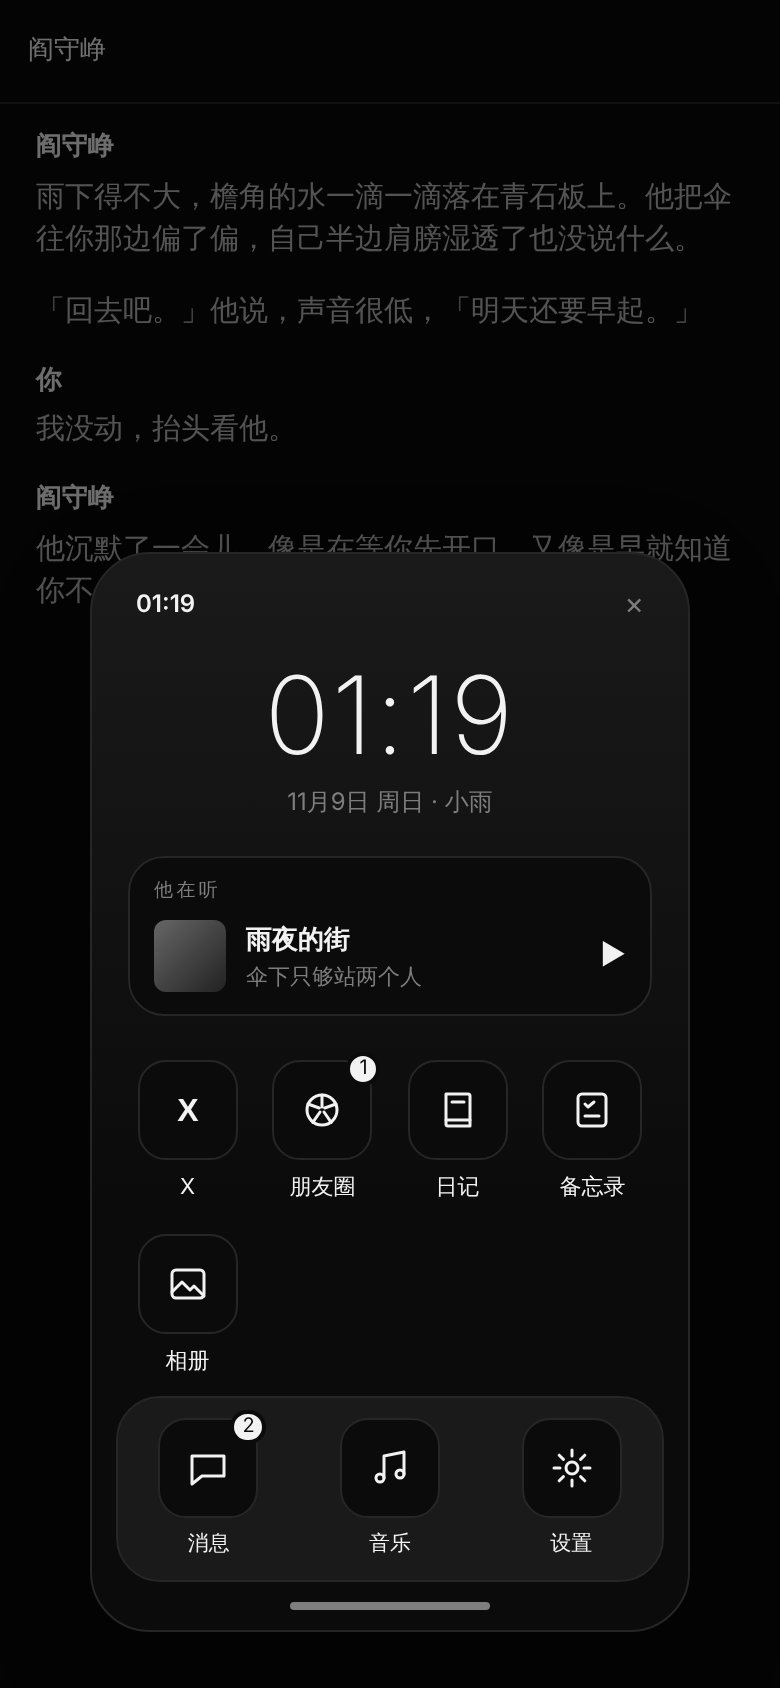
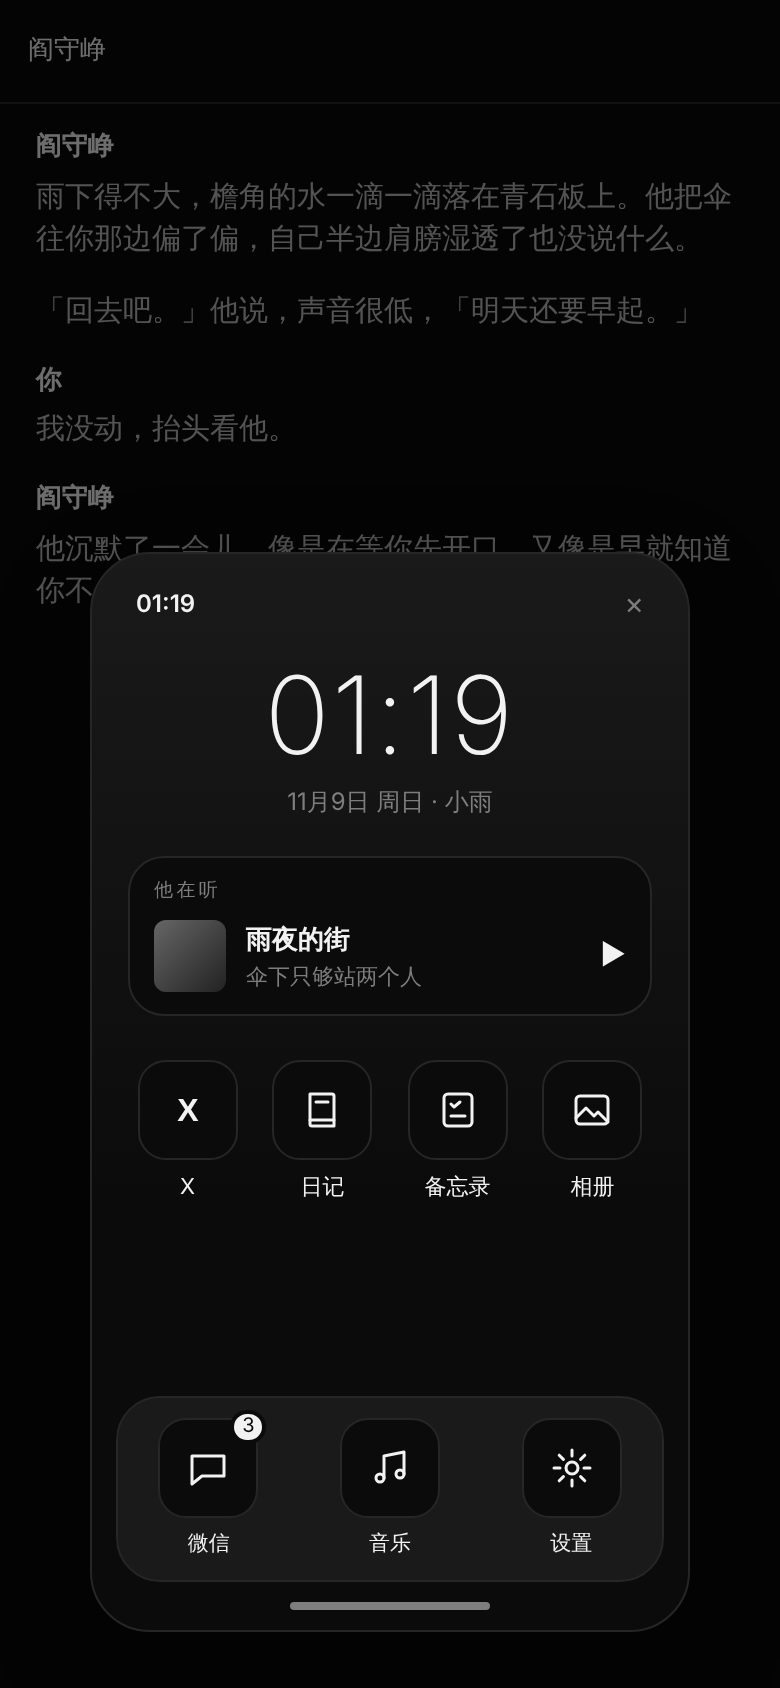
样子图：小手机加微信（聊天 / 通讯录 / 朋友圈 / 我），朋友圈能看到 NPC、一次加载 10 条
Claude-Session: https://claude.ai/code/session_01PCU4N3EkwLiSvaEMBpozR4

diff --git a/docs/mockups/mock.html b/docs/mockups/mock.html
@@ -188,6 +188,15 @@ body{margin:0;width:390px;height:844px;overflow:hidden;font:14px/1.5 -apple-syst
 .read{align-self:flex-end;font-size:10.5px;color:var(--dim)}
 .dmmenu{position:absolute;top:58px;right:12px;width:178px;background:var(--bg);border:1px solid var(--line);border-radius:12px;box-shadow:0 10px 26px rgba(0,0,0,.18);padding:4px 0}
 .dmi{padding:9px 14px;font-size:13px;display:flex;justify-content:space-between;align-items:center;border-bottom:1px solid var(--line)}.dmi:last-child{border:0}.dmi .hd{font-size:11px}
+.wcover{height:120px;flex:0 0 auto;position:relative;background:linear-gradient(160deg,#cfcfcf,#7d7d7d 60%,#4a4a4a)}
+.dark .wcover{background:linear-gradient(160deg,#3a3a3a,#1e1e1e 60%,#111)}
+.wme{position:absolute;right:14px;bottom:-18px;display:flex;align-items:flex-end;gap:8px}.wme span{color:#fff;font-weight:600;font-size:14px;margin-bottom:24px;text-shadow:0 1px 3px rgba(0,0,0,.4)}
+.wav{width:52px;height:52px;border-radius:10px;background:linear-gradient(135deg,#eee,#999);border:2px solid var(--bg)}
+.wfeed{flex:1;overflow:hidden;padding-top:22px}
+.wfeed .mo{padding:10px 14px}.wfeed .mo .body{font-size:13px}.wfeed .mgrid{grid-template-columns:repeat(3,minmax(0,1fr))}
+.av.him{outline:1.5px solid var(--fg);outline-offset:1px}
+.loadmore{text-align:center;font-size:11.5px;color:var(--dim);padding:10px}
+.wtabs{display:flex;border-top:1px solid var(--line);font-size:12px;color:var(--dim)}.wtabs span{flex:1;text-align:center;padding:9px 0 4px}.wtabs .on{color:var(--fg);font-weight:600}
 </style></head><body>
 <div class="st">
   <div class="bar"><span style="font-size:13px;color:var(--fg)">阎守峥</span></div>
@@ -341,10 +350,9 @@ const phhome=`<div class="shade"></div><div class="phone home">
  <div class="clock"><div class="ct">01:19</div><div class="cd">11月9日 周日 · 小雨</div></div>
  <div class="widget"><div class="cap" style="font-size:9.5px">他在听</div><div style="display:flex;align-items:center;gap:10px;margin-top:6px"><div class="wcov"></div><div style="flex:1;min-width:0"><b style="font-size:13px">雨夜的街</b><div class="hd" style="font-size:11px">伞下只够站两个人</div></div><span style="font-size:14px">▶</span></div></div>
  <div class="apps">
-  ${app('x','X')}${app('moments','朋友圈',1)}${app('diary','日记')}${app('memo','备忘录')}
-  ${app('photos','相册')}
+  ${app('x','X')}${app('diary','日记')}${app('memo','备忘录')}${app('photos','相册')}
  </div>
- <div class="dock">${app('msg','消息',2)}${app('music','音乐')}${app('set','设置')}</div>
+ <div class="dock">${app('msg','微信',3)}${app('music','音乐')}${app('set','设置')}</div>
  <div class="hbar"></div>
 </div>`;
 const xpage=`<div class="shade"></div><div class="phone">
@@ -444,6 +452,21 @@ const xdm=`<div class="shade"></div><div class="phone">
  <div class="inp"><div class="plus">+</div><div class="field">发私信</div><div class="send">↑</div></div>
  <div class="hbar"></div>
 </div>`;
+const WM=(who,t,body,pics,extra,mine)=>`<div class="mo"><div class="av xs${who==='阎守峥'?' him':''}"></div><div style="flex:1;min-width:0"><b class="mn">${who}</b>
+  <div class="body">${body}</div>${pics?`<div class="mgrid">${pics.map(x=>`<span>${x}</span>`).join('')}</div>`:''}
+  <div class="mt"><span>${t}</span><span class="mmore">··</span></div>${extra?`<div class="mbox">${extra}</div>`:''}</div></div>`;
+const wx=`<div class="shade"></div><div class="phone">
+ <div class="wcover"><span class="bk" style="color:#fff;position:absolute;top:12px;left:14px">‹</span><span style="position:absolute;top:13px;right:14px;color:#fff;font-size:15px">◎</span><div class="wme"><span>我</span><div class="wav"></div></div></div>
+ <div class="wfeed">
+  ${WM('阿宁','20 分钟前','面馆老板回来了！！下礼拜一开门',['卷帘门拉起来了'],'<div class="mlike">♡ 陈叔</div>')}
+  ${WM('阎守峥','11.09 01:02 · 巷口','伞是旧的，人是新的。','', '<div class="mlike">♡ 我，陈叔，阿宁</div><div class="mc"><b>我</b>：伞明明是新买的</div><div class="mc"><b>阎守峥</b> 回复 <b>我</b>：嗯，人也是。</div>')}
+  ${WM('陈叔','11.08 21:15','货到了，明早码头见。别迟到。','','<div class="mlike">♡ 阎守峥</div>')}
+  ${WM('阎守峥','11.08 19:40','今天的面没吃上。',['卷帘门','门上的告示'],'')}
+  <div class="loadmore">往下滑，再加载 10 条</div>
+ </div>
+ <div class="wtabs"><span>聊天 <span class="badge sm">2</span></span><span>通讯录</span><span class="on">朋友圈</span><span>我</span></div>
+ <div class="hbar" style="margin-top:4px"></div>
+</div>`;
 const contacts=`<div class="shade"></div><div class="phone">
  <div class="ph"><span class="bk">‹</span><div class="nm" style="flex:1">联系人</div><span class="close">＋</span></div>
  <div class="clist">
@@ -459,6 +482,6 @@ const contacts=`<div class="shade"></div><div class="phone">
  <div class="hbar"></div>
 </div>`;
 document.getElementById('cat').src='cat-'+(q.get('t')==='dark'?'dark':'light')+'-'+(q.get('c')||'idle')+'.png'; if(s) document.getElementById('cat').style.display='none';
-document.getElementById('extra').innerHTML = s==='drawer'?drawer : s==='profile'?profile : s==='x'?xpage : s==='home'?phhome : s==='plus'?chatplus : s==='contacts'?contacts : s==='settings'?settings : s==='dm'?xdm : s==='phone'?phone : '';
+document.getElementById('extra').innerHTML = s==='drawer'?drawer : s==='profile'?profile : s==='x'?xpage : s==='home'?phhome : s==='plus'?chatplus : s==='contacts'?contacts : s==='settings'?settings : s==='wx'?wx : s==='dm'?xdm : s==='phone'?phone : '';
 if(q.get('scroll')){document.querySelector('.drawer.pf')?.classList.add('mini');const f=document.getElementById('feed');if(f)f.scrollTop=9999;}
 </script></body></html>

diff --git a/docs/design.md b/docs/design.md
@@ -16,7 +16,8 @@
 还在商量，下面是 cc 整理的草稿，**她没点头的都不算定了**。
 
 0. **小手机设置**（她 11/9 要的，在主页底下一排）：主页头图（跟天气 / 固定 / 他来挑）、他的名字和签名、我的名字和头像；API（小手机用哪个、钥匙本、省一点）；他（时代、提示词、手机聊天记几条）；其他（外观、小猫入口开关）。样子 settings-*.png
-0. **小手机主页**（她 11/9 要的）：打开小手机先是主页，自己点想用的软件。顶上剧情时间（大字）、日期天气；「他在听」音乐小卡；软件：X、朋友圈、日记、备忘录、相册（**钱包她不要**），底下一排常用：消息、音乐、设置；有新消息的角上带数字。进了软件点底下那条横杠回主页（只能点，不能滑）。样子 home-*.png（`?s=home`）
+0. **微信**（她 11/9 要的）：小手机里的聊天、通讯录（联系人 / 好友申请 / 拉黑）、朋友圈都装进「微信」，底下四个标签 聊天 / 通讯录 / 朋友圈 / 我。**朋友圈和抽屉的动态卡片是同一份**，但这里看得更多：一次加载 10 条，往下滑再加载；还能看到其他人（NPC：陈叔、阿宁……）发的，卡片上只有他的。他的头像带一圈细框好认。样子 wx-*.png
+0. **小手机主页**（她 11/9 要的）：打开小手机先是主页，自己点想用的软件。顶上剧情时间（大字）、日期天气；「他在听」音乐小卡；软件：X、日记、备忘录、相册（**钱包她不要**），底下一排常用：微信、音乐、设置；有新消息的角上带数字。进了软件点底下那条横杠回主页（只能点，不能滑）。样子 home-*.png（`?s=home`）
 1. **小手机聊天**：连发几条、点 ↑ 才回，不新增正文楼层；他的回复一条条出来；长按编辑 / 删除；「＋ → 重生成」收回他这一轮、失败恢复。＋里：表情包（本地传或「名字: 图片链接」批量导入，两人共用）、语音条（点开看文字）、虚拟图片（点开看描述，不生图）、转账（可收可退；她觉得有点鸡肋但没有又不好，所以只放在＋里，不单独做钱包）。样子 plus-*.png：＋展开是表情 / 语音 / 图片 / 转账 / 重生成；转账是一张灰卡片（金额、留言、已收下）。联系人：互相拉黑、好友申请，关系变了他改你的备注，聊天里留一行居中小字。联系人页 contacts-*.png（聊天右上 ≡ 进去）：好友申请（通过 / 拒绝）、好友（看他给你的备注）、拉黑（你拉黑的能解除；他拉黑你的只能等他）。时间接着剧情走，正文更新后再进来提示校准，也能手改
 2. **账号和记忆**：分账号（工作 / 私人……）；「他认出你」「你认出他」两项分开设（没认出 / 怀疑 / 确认），可勾他线上已知道的资料；每个联系人记最近 N 条（默认 50），可选带进正文、可选给别的账号参考
 3. **X**（公开的网上身份，可单独关）：他的主页（头像、背景、网名、账号、简介都能改）；随剧情 0～2 条新帖，显示最新 15 条；点赞、收藏、留言、搜索、删帖；私信是另一段关系（你对他是陌生人），他可能已读不回、拉黑；你可以有多个 X 账号；从 X 加到小手机。私信样子 dm-*.png：顶上写「你们没有互相关注 · 他不知道你是谁」，有「已读」；右上 ··· 是切换 X 账号 / 添加到小手机 / 拉黑
